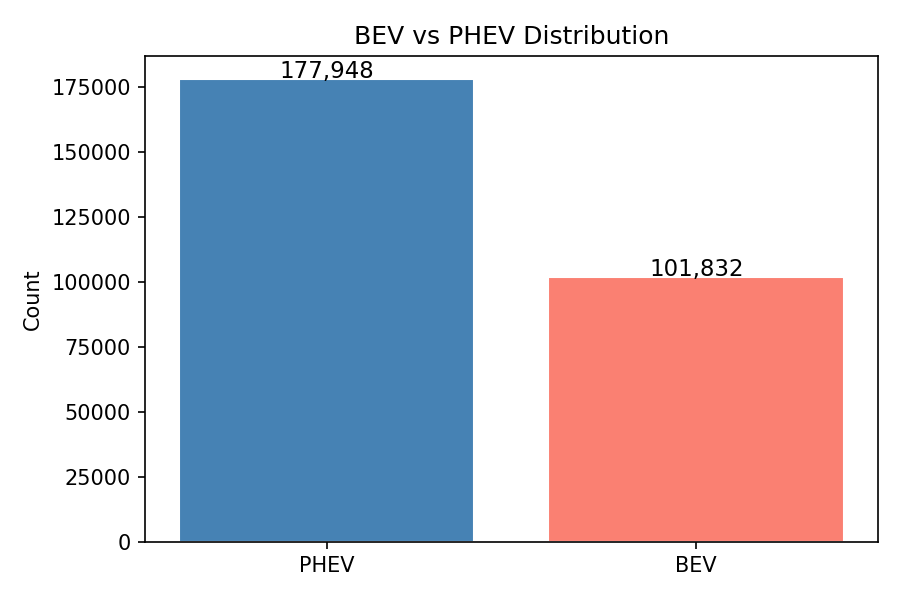
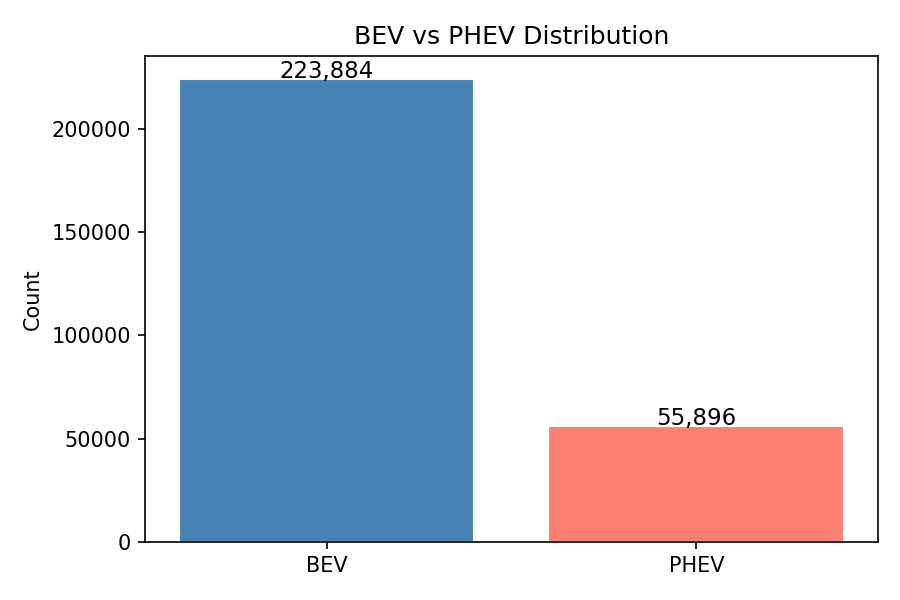
Solve Code error

diff --git a/Classification/classification.py b/Classification/classification.py
@@ -1,7 +1,6 @@
 import os
 os.chdir(os.path.dirname(os.path.abspath(__file__)))
 import pandas as pd
-import numpy as np
 import matplotlib.pyplot as plt
 import seaborn as sns
 from sklearn.neighbors import KNeighborsClassifier
@@ -15,37 +14,32 @@ warnings.filterwarnings('ignore')
 
 # LOAD PREPROCESSED DATA
 print("=" * 60)
-print("STEP 1. LOAD PREPROCESSED DATA")
+print("LOAD PREPROCESSED DATA")
 print("=" * 60)
 
-# Load the preprocessed dataset from the preprocessing team
 df = pd.read_csv("EV_preprocessed_standard.csv")
 print(f"Data shape: {df.shape[0]} rows x {df.shape[1]} columns")
 
 
-# CREATE TARGET LABEL (BEV / PHEV)
+# DEFINE TARGET LABEL (BEV / PHEV)
 print("\n" + "=" * 60)
-print("STEP 2. CREATE TARGET LABEL")
+print("DEFINE TARGET LABEL")
 print("=" * 60)
 
-# Check if Electric Vehicle Type was one-hot encoded during preprocessing
-ev_type_cols = [c for c in df.columns if 'Electric Vehicle Type' in c or 'EV_Type' in c]
-print(f"EV Type related columns: {ev_type_cols}")
+# We use the BEV column directly as our binary target
+# True = BEV (Battery Electric Vehicle)
+# False = PHEV (Plug-in Hybrid Electric Vehicle)
+y = df['Electric Vehicle Type_Battery Electric Vehicle (BEV)']
 
-# Use Electric Range to determine vehicle type
-# BEVs (Battery Electric Vehicles) have a non-zero electric range
-# PHEVs (Plug-in Hybrid Electric Vehicles) are recorded as 0 in this dataset
-df['EV_Label'] = df['Electric Range'].apply(lambda x: 'BEV' if x > 0 else 'PHEV')
-
-print("\n[Target Label Distribution]")
-print(df['EV_Label'].value_counts())
+print("[Target Label Distribution]")
+print(y.value_counts().rename({True: 'BEV', False: 'PHEV'}))
 print("\n[Target Label Ratio]")
-print(df['EV_Label'].value_counts(normalize=True).map('{:.1%}'.format))
+print(y.value_counts(normalize=True).rename({True: 'BEV', False: 'PHEV'}).map('{:.1%}'.format))
 
-# Visualize class distribution to check for imbalance
+# Visualize class distribution
 fig, ax = plt.subplots(figsize=(6, 4))
-counts = df['EV_Label'].value_counts()
-bars = ax.bar(counts.index, counts.values,
+counts = y.value_counts()
+bars = ax.bar(['BEV', 'PHEV'], counts.values,
               color=['steelblue', 'salmon'], edgecolor='white')
 ax.set_title('BEV vs PHEV Distribution')
 ax.set_ylabel('Count')
@@ -59,33 +53,28 @@ for bar, val in zip(bars, counts.values):
 # ha='center': Ensures the string alignment is centered
 plt.tight_layout()
 plt.savefig('bev_phev_distribution.png', dpi=150)
-# savefig: save the graph drawn from Matplotlib to Image
 plt.show()
 print("→ 'bev_phev_distribution.png' saved")
 
 
-# PREPARE X, y
+# PREPARE X
 print("\n" + "=" * 60)
-print("STEP 3. PREPARE X, y")
+print("PREPARE X")
 print("=" * 60)
 
-y = df['EV_Label']
-
-# Several columns need to be excluded before training
-# 1. Make and Model: directly reveal the vehicle type (e.g. Tesla is always BEV)
-# 2. Electric Range: used to create lable
-# 3. One-hot encoded EV Type columns: label
-# 4. CAFV Eligibility: data leak
-drop_for_X = ['Make', 'Model', 'Electric Range', 'EV_Label']
-drop_for_X += ev_type_cols
-
-cafv_cols = [c for c in df.columns if 'CAFV' in c or 'Eligibility' in c or 'Fuel Vehicle' in c]
-drop_for_X += cafv_cols
+# Columns to exclude:
+# Make, Model: knowing the brand already reveals the type (e.g. Tesla = always BEV)
+# Electric Range: directly correlated with vehicle type, would leak the answer
+# Electric Vehicle Type (both one-hot cols): these ARE the label
+# CAFV Eligibility: determined by battery range, indirectly leaks BEV/PHEV info
+ev_type_cols = [c for c in df.columns if 'Electric Vehicle Type' in c]
+cafv_cols = [c for c in df.columns if 'Eligibility' in c]
+drop_for_X = ['Make', 'Model', 'Electric Range'] + ev_type_cols + cafv_cols
 drop_for_X = [c for c in drop_for_X if c in df.columns]
 
 X = df.drop(columns=drop_for_X)
 
-print(f"Dropped columns (answer-leaking): {drop_for_X}")
+print(f"Dropped columns : {drop_for_X}")
 print(f"\nX shape: {X.shape}")
 print(f"y shape: {y.shape}")
 print(f"\nFeatures used for training:")
@@ -93,18 +82,16 @@ for col in X.columns:
     print(f"  - {col}")
 
 
-# CLASSIFICATION
+# CLASSIFICATION WITH K-FOLD CROSS VALIDATION
 print("\n" + "=" * 60)
 print("STEP 4. CLASSIFICATION WITH K-FOLD CROSS VALIDATION")
 print("=" * 60)
 
-# Using 5-fold CV instead of a single train/test split
-# to get a more reliable estimate of model performance
+# 5-fold CV gives a more reliable performance estimate than a single split
 kf = KFold(n_splits=5, shuffle=True, random_state=42)
 
-# Three classifiers are compared
-# SVM was considered but ruled out because training on 270k+ rows
-# takes an unreasonably long time; Logistic Regression is used instead
+# SVM was ruled out due to excessive training time on 270k+ rows
+# Logistic Regression is used as a faster linear baseline instead
 models = {
     'KNN (k=5)'          : KNeighborsClassifier(n_neighbors=5),
     'Decision Tree'      : DecisionTreeClassifier(random_state=42),
@@ -134,11 +121,14 @@ for ax, (name, model) in zip(axes, models.items()):
     # so every sample gets predicted exactly once without data leakage
     y_pred = cross_val_predict(model, X, y, cv=kf)
 
-    print(f"\n[{name}] Classification Report")
-    print(classification_report(y, y_pred))
+    # Convert True/False back to BEV/PHEV for readability
+    y_display = y.map({True: 'BEV', False: 'PHEV'})
+    y_pred_display = ['BEV' if p else 'PHEV' for p in y_pred]
 
-    # Confusion matrix shows how many BEVs and PHEVs were correctly/incorrectly classified
-    cm = confusion_matrix(y, y_pred, labels=['BEV', 'PHEV'])
+    print(f"\n[{name}] Classification Report")
+    print(classification_report(y_display, y_pred_display))
+
+    cm = confusion_matrix(y_display, y_pred_display, labels=['BEV', 'PHEV'])
     sns.heatmap(cm, annot=True, fmt='d', cmap='Blues',
                 xticklabels=['BEV', 'PHEV'],
                 yticklabels=['BEV', 'PHEV'],
@@ -175,7 +165,7 @@ ax.boxplot(results.values(), labels=results.keys(), patch_artist=True,
 # - results.values() & results.keys(): Extracts the data values and maps them to their corresponding dictionary keys
 # - patch_artist=True: converts so it can be filled with color.
 # - boxprops=dict(facecolor='lightblue'): Passes a dictionary of properties to style the box
-#   'facecolor': fills the interior with a light blue color
+#   'facecolor': fills the interior with a light blue colo
 ax.set_title('Model Accuracy Comparison (5-Fold CV)')
 ax.set_ylabel('Accuracy')
 ax.set_ylim(0, 1)
@@ -191,11 +181,12 @@ print("\n" + "=" * 60)
 print("CLASSIFICATION COMPLETE — SUMMARY")
 print("=" * 60)
 print(f"  Dataset       : {len(df)} rows")
-print(f"  Target        : EV_Label (BEV / PHEV)")
+print(f"  Target        : BEV (True) / PHEV (False)")
 print(f"  Features      : {X.shape[1]} columns")
-print(f"  Excluded      : Make, Model, Electric Range (answer-leaking)")
-print(f"                  EV Type columns (answer itself)")
-print(f"                  CAFV columns (indirect answer-leaking)")
+print(f"  Excluded      : Make, Model (brand leakage)")
+print(f"                  Electric Range (answer leakage)")
+print(f"                  EV Type columns (label itself)")
+print(f"                  CAFV columns (indirect leakage)")
 print(f"  Evaluation    : 5-Fold Cross Validation")
 print(f"  Models tested : {', '.join(models.keys())}")
 print(f"  Best Model    : {best_model} (Accuracy: {means[best_model]:.4f})")